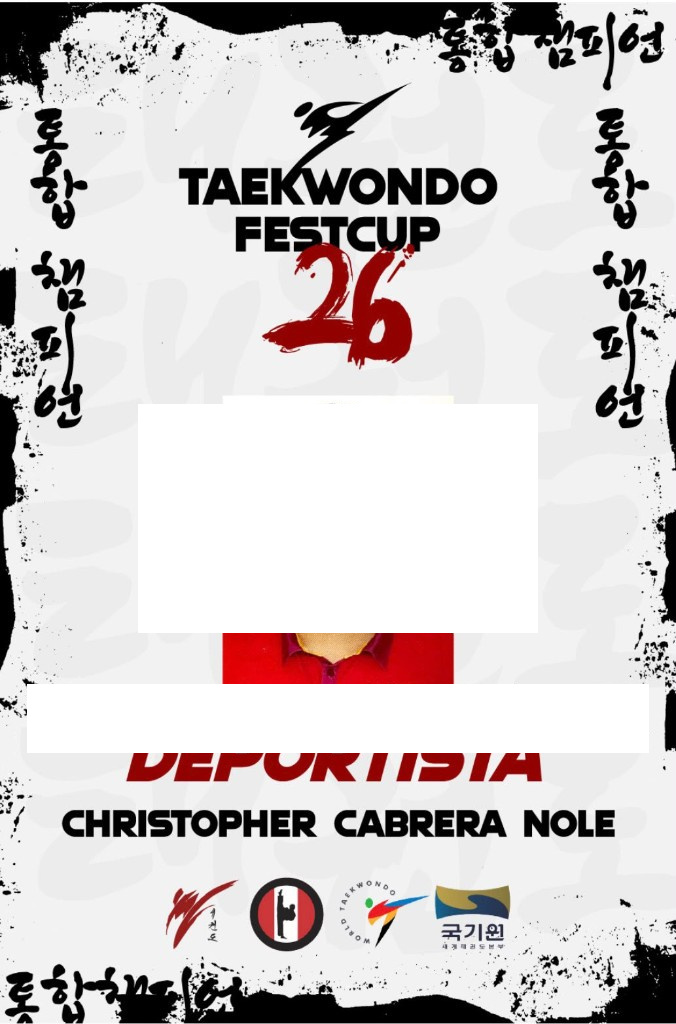
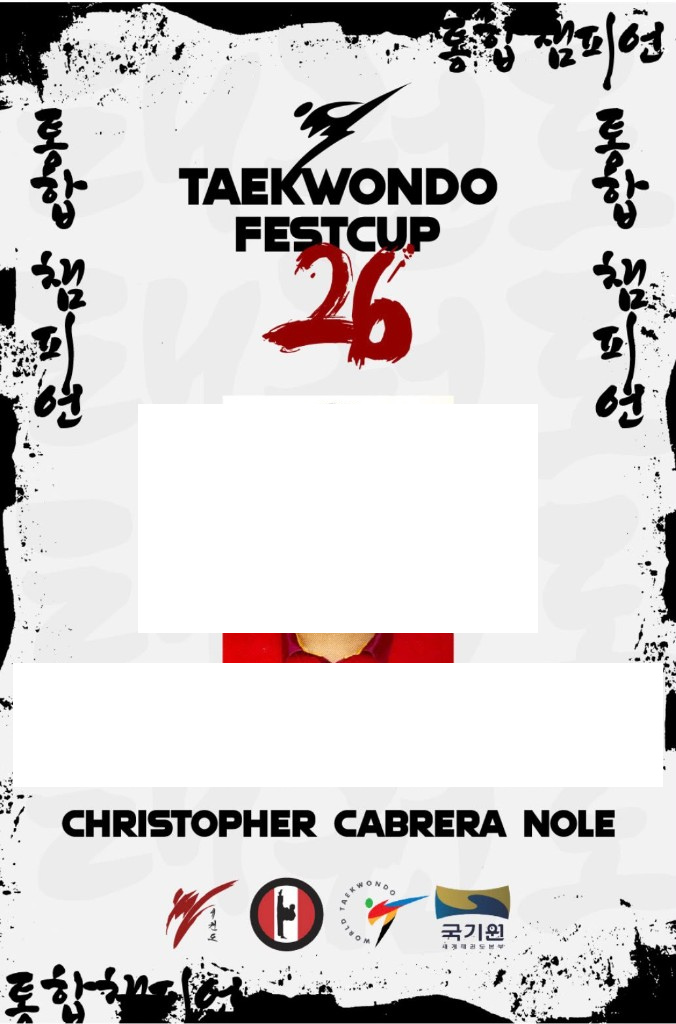
Ajustar calibración FestCup 2026: foto, nombre y plantilla sin texto de muestra.

diff --git a/src/components/campeonatos/CredencialCard.js b/src/components/campeonatos/CredencialCard.js
@@ -29,7 +29,12 @@ export default function CredencialCard({ competidor: c, templateUrl, layout: lay
     () => normalizeCredencialLayout(layoutProp || DEFAULT_CREDENCIAL_LAYOUT),
     [layoutProp]
   )
-  const plantillaSrc = credencialTemplateSrc(templateUrl)
+  const plantillaSrc = useMemo(() => {
+    const src = credencialTemplateSrc(templateUrl)
+    return layoutProp?.variant === 'festcup2026' || layout.variant === 'festcup2026'
+      ? `${src}${src.includes('?') ? '&' : '?'}v=20261015`
+      : src
+  }, [templateUrl, layoutProp?.variant, layout.variant])
 
   useEffect(() => {
     setFotoOk(Boolean(c.foto_url))
@@ -49,7 +54,7 @@ export default function CredencialCard({ competidor: c, templateUrl, layout: lay
     top: `${layout.datos.top}%`,
     width: `${layout.datos.width}%`,
     height: `${layout.datos.height}%`,
-    ...(isFestcup2026 ? { transform: 'translate(-50%, -50%)' } : {}),
+    ...(isFestcup2026 ? { transform: 'translateX(-50%)' } : {}),
   }
 
   return (
@@ -81,7 +86,6 @@ export default function CredencialCard({ competidor: c, templateUrl, layout: lay
               </p>
             </>
           )}
-          {isFestcup2026 && c.dorsal ? <p className="cred-datos-extra cred-datos-extra--festcup">{c.dorsal}</p> : null}
         </div>
       </div>
     </article>

diff --git a/src/components/campeonatos/credenciales.css b/src/components/campeonatos/credenciales.css
@@ -176,30 +176,42 @@
   background: #fff;
 }
 
+.credencial-frente--festcup2026 .cred-plantilla-bg {
+  object-fit: fill;
+}
+
 .credencial-frente--festcup2026 .cred-foto-slot {
   aspect-ratio: auto;
   box-shadow: none;
+  border: 0.35mm solid rgba(0, 0, 0, 0.85);
+  box-sizing: border-box;
 }
 
 .credencial-frente--festcup2026 .cred-datos-slot {
   background: transparent;
   padding: 0;
+  align-items: center;
+  justify-content: flex-start;
 }
 
 .credencial-frente--festcup2026 .cred-datos-nombre {
   margin: 0;
-  font-size: 2.65mm;
+  font-family: 'Arial Narrow', 'Helvetica Neue', Arial, sans-serif;
+  font-size: 2.35mm;
   font-weight: 800;
-  letter-spacing: 0.02em;
-  line-height: 1.15;
-  color: #0a0a0a;
+  font-stretch: condensed;
+  letter-spacing: 0.01em;
+  line-height: 1.12;
+  color: #111;
+  text-transform: uppercase;
+  word-break: break-word;
+  hyphens: auto;
 }
 
-.credencial-frente--festcup2026 .cred-datos-extra--festcup {
-  margin: 0.8mm 0 0;
-  font-size: 2mm;
-  font-weight: 700;
-  color: #444;
+.credencial-frente--festcup2026 .cred-foto-img--empty {
+  background: #fff;
+  color: #94a3b8;
+  font-size: 9px;
 }
 
 /* Zona datos participante — posición vía inline style */

diff --git a/src/lib/campeonato/credencial-layout.js b/src/lib/campeonato/credencial-layout.js
@@ -6,8 +6,8 @@ export const DEFAULT_CREDENCIAL_LAYOUT = {
 
 /** FestCup 2026 · plantillas deportista / entrenador (foto rectangular) */
 export const FESTCUP_2026_CREDENCIAL_LAYOUT = {
-  foto: { type: 'rect', left: 50, top: 50.6, width: 44, height: 22.5 },
-  datos: { left: 50, top: 70.2, width: 92, height: 7 },
+  foto: { type: 'rect', left: 50, top: 50.65, width: 59, height: 22.8 },
+  datos: { left: 50, top: 70.8, width: 96, height: 12 },
   variant: 'festcup2026',
 }
 
